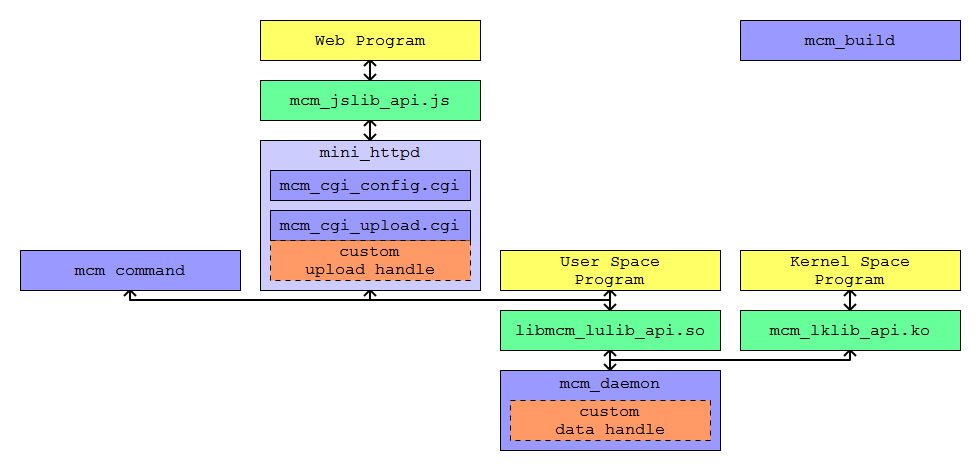
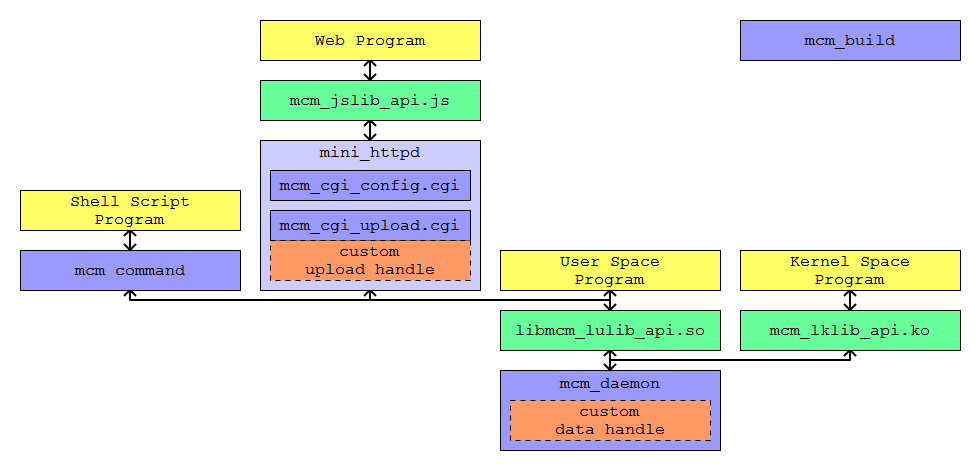
update mcm command description

Changed region(s): [[0.0, 0.3872, 0.2449, 0.5362]]

diff --git a/usage/zh-TW/html/mcm_0101.html b/usage/zh-TW/html/mcm_0101.html
@@ -85,12 +85,16 @@ Some rights reserved. See README.
     檔案上傳部分使用 form 機制.
     <br><br><br>
 
-    <font class="css_font_g2">Web program</font><br>
+    <font class="css_font_g2">Web Program</font><br>
     需要資料存取服務的網頁端程式.
     <br><br><br>
 
     <font class="css_font_r2">mcm command</font><br>
     指令程式, 在 Shell Script 中可以使用此指令程式做資料存取.
+    <br><br><br>
+
+    <font class="css_font_g2">Shell Script Program</font><br>
+    需要資料存取服務的 Shell Script 端程式.
     <br><br><br>
 
     除了 mcm_build 要在 PC 上執行, 其他部分可以編譯到使用 Linux 的不同硬體平台上執行.

diff --git a/README.md b/README.md
@@ -31,11 +31,14 @@
 **`mcm_jslib_api.js`**  
 提供介面給網頁程式做資料的存取和檔案的上傳, 資料存取部分使用 AJAX + JSON 機制, 檔案上傳部分使用 form 機制.
 
-`Web program`  
+`Web Program`  
 需要資料存取服務的網頁端程式. 
 
 **`mcm command`**  
 指令程式, 在 Shell Script 中可以使用此指令程式做資料存取.
+
+`Shell Script Program`  
+需要資料存取服務的 Shell Script 端程式. 
 
 詳細的使用說明檔在 `mint_cm/usage/zh-TW/mcm_index.html`
 
